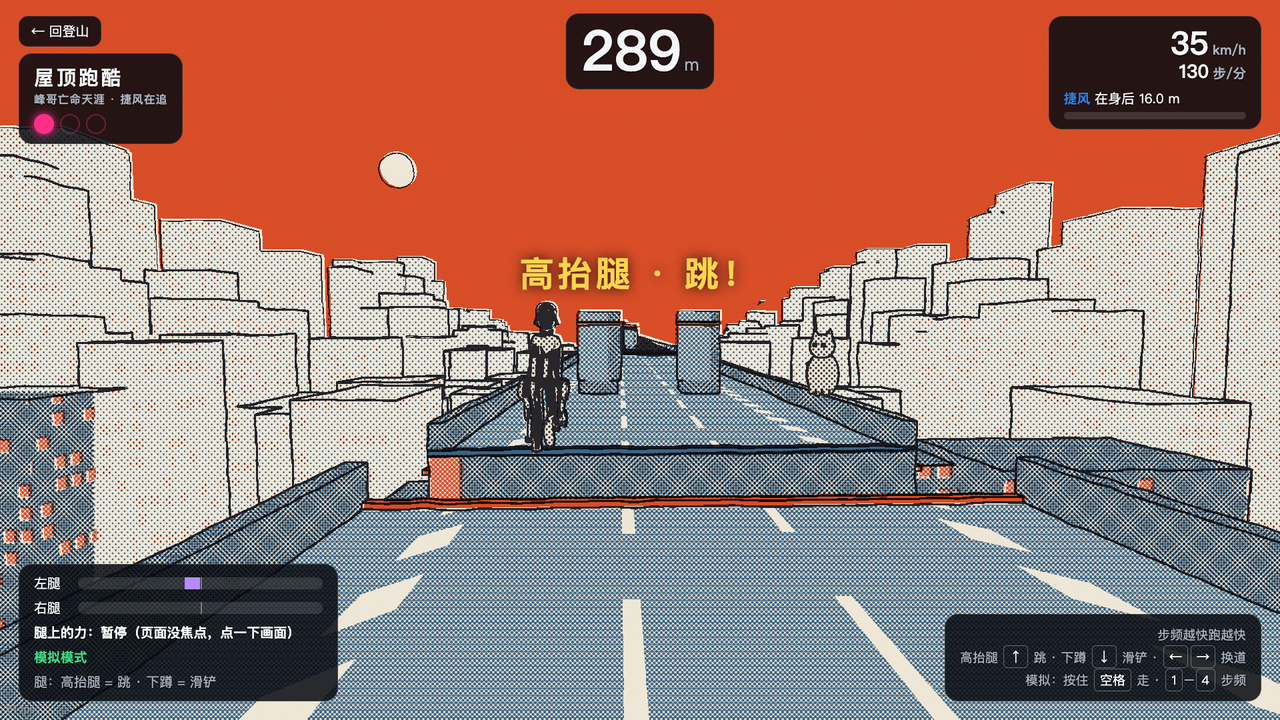
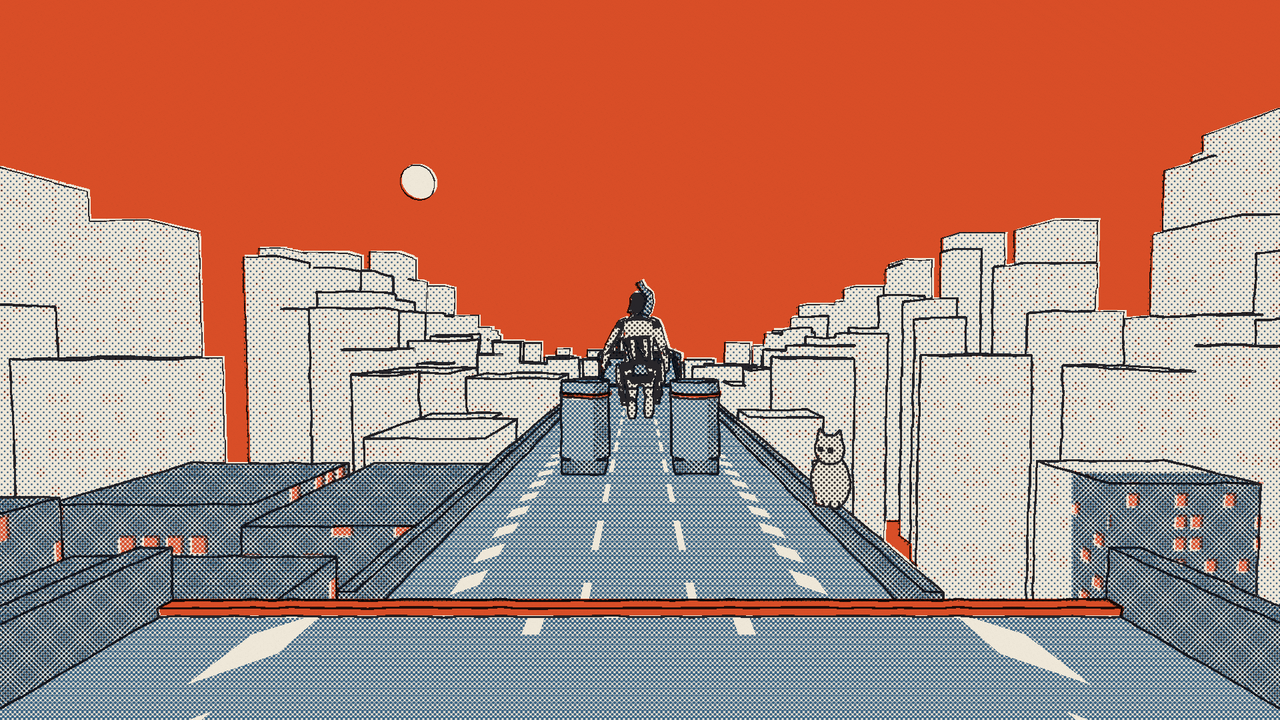
L：跑酷 riso 截图换成最新 main（R 动作 / P 身体）+ ?hud=0 的干净画面；指挥板 L 行第 3 轮

diff --git a/docs/指挥板.md b/docs/指挥板.md
@@ -17,7 +17,7 @@
 | **P 峰哥建模**（分支 claude/vibrant-ritchie-f949b4） | `static/game/fengge.js`、`static/game/lod.js`（新，第 2 轮）、`tests/test_game_lod.py`（新）、`static/fengge.html`、`static/models/fengge_face_hd.jpg`（新）、`docs/提交/素材授权.md`（新，和 J 线那份表头一样，合并时两边的行拼起来）、`docs/提交/截图/fengge_v2_*.png`；**avatar.js / engine.js / fengge.html 都没改** | 峰哥在正面镜头（V / `?cam=front`）近景下好看、一眼认得出：立体头型、针织帽、胡子头发、户外穿搭，外骨骼保留 | ⏳ **新三轮 · 第 1 轮 身体（等球球看）**（未 push）：CesiumMan 网格整个藏掉，换成按骨骼现摆的低多边形身体（`game/fengge/body.js`：躯干 / 腿 / 鞋 / 手臂沿骨头放样，平面着色哑光，蒙皮到**同一套骨骼**，A2 的动作照用）。比例（`game/fengge/shape.js`，loadAvatar 之后挪关节、外骨骼大小腿连杆跟着拉长，**avatar.js / anim.js 没动**）：偏瘦、窄肩，头 0.23 m，头身比约 1:6.5，髋关节约占身高 47%。头改成平面着色，和身体同一套低多边形质感，照片脸仍按 v3 C 投影。手（`game/fengge/hand.js`，子代理做的）：每只手有 16 根指骨，能 relax / grip / thumbsUp / open，两节骨 IK 伸手扣锁（到位误差约 2 µm，到位自动攥住），每只 258 三角。**给 E 线（华山南天门）**：`import { reach, reachStatus, reachGrip } from './fengge.js'`，`reach(世界坐标 Vector3, { side: 'R', grip: true })` 伸手，`reach(null)` 收回，`reachStatus('R').gripped` = 扣上了，`reachGrip('R')` = 手心抓握点（锁扣可以 attach 上去）。预览页可以用 `/fengge?reach=0.35,1.1,0.12`（化身局部坐标）试。登顶竖大拇指改用新手。穿搭（`game/fengge/outfits.js`）：按当前世界的 `theme.style` 选（fengge.js 按引擎同样的规则自己找世界，**engine.js 没动**），`?outfit=` 临时换；第 1 轮先穿基础款（球球挑的橙红砖冲锋衣）。开销：珠峰 pos 20 正面，场景比 `?fengge=0` 多 7.7k 三角（头近档 5.8k + 身体 2.3k + 手 0.5k …），绘制次数不变（108）。截图：`截图/fengge_r1_{front,30,back}.png`（白背景，`/fengge?bg=white`）、`fengge_r1_game.png`（珠峰游戏内正面镜头）、`fengge_r1_sheet.png`（总览）。pytest 125 过 1 挂（`test_fault::test_stress_stack_end_to_end`，worktree 缺被忽略的 `data/recordings/synthetic-walk.csv`，旧问题）。**没做 / 不理想**：身体没有远档 LOD（第 3 轮做）；手掌近看像块砖；肩头有一点方；影子仍是 CesiumMan。<br>| ✅ **第 3 轮：球球选了 C（v2 改良），已设成缺省**（未 push）。球球说 v2「还是太丑」后做了三个候选：A 平涂卡通、B 低多边形雕塑、C v2 改良（总览 `截图/fengge_v3_candidates.png`）。球球挑了 C，A、B 的代码删了（见 git e1f2d23，要回头看用那个提交）。**C 的做法**：还是照片正投影，五官起伏减到 0.8，头 0.26 m，头 / 帽 / 头发 / 围脖都改成和身体一样的哑光材质（Lambert）。照片和两侧肤色混好之后，整张脸一起去饱和 35%、压成 6 阶色阶：脸不那么「照片」，和两侧肤色也接得上，泰山暖光下不再发红。`?fgstyle=v2` 能看回旧的。试过三阶卡通光（MeshToonMaterial）：背光面不变暗，暖光下整张脸成了发光的橙色面具，没用。顺手按 ART 附录 A 把胸前青色压暗到 `#1d7d88`。骨骼、A2 的动作、LOD、登顶大拇指都照旧。**定稿截图**：`截图/fengge_v3_C_front / 30 / side / walk / summit.png`（`/fengge` 预览）、`fengge_v3_C_game.png`（泰山 pos 14 正面）、`fengge_v3_C_night.png`（东京 pos 18 正面）。面数和 v2 一样（泰山正面比 `?fengge=0` 多 10.3k 三角，绘制次数不变）。**不理想**：转头还是能看出脸是贴上去的，侧脸只靠几何 + 肤色；要侧脸也像，得等本人侧脸照片（`data/fengge_photos/` 还是空的，后台在盯）。<br>| ✅ **第 2 轮（未 push）**：① **LOD**：峰哥头 / 帽 / 头发造了两档，按头离镜头的距离切换（`THREE.LOD`，3.6 m，回差 10%）：正面镜头约 2.4 m 用近档（和 v2 一样，1.07 万三角），跟拍约 5 m、登顶环绕用远档（约 1.8k 三角）。30° 特写两档几乎看不出差别（`截图/fengge_lod.png`，左近右远），`?fglod=0/1` 可以固定用近档或远档。实测（`scripts/dom.mjs`，1920×1080，`npc=0`，面数按 dom.mjs 报的原样记，现在每帧要画两遍（光影线的后期），所以比 v2 那时大）：东京 pos 18 跟拍 +2.6k/帧（v2 是 +10.6k），泰山 pos 14 正面 +20.5k/帧；两处绘制次数和 `?fengge=0` 一样（149 / 106）。**捷风雕像**归 J，我只出了工具 `game/lod.js` 的 `simplify(geo, cell)`（顶点聚类，4.4 万三角 → 1.48 万三角，38–46 ms）和方案（见留言）。② **登顶「这是个好事儿啊」**：包一层 A2 的 animate（A2 同意由 P 维护），程度直接读 `av.body.P.cheer`：先点两下头，再多仰 6°、往一侧歪 8°；右臂把 V 字挥手换成**举在头侧的大拇指**。CesiumMan 的手是连指手套，没有手指骨，所以登顶时右手在着色器里藏掉，换成拳头 + 朝天的拇指；登顶镜头多从背后拍（泰山是定机位），举在头侧前后都看得见。照片嘴角往上挪约 7 px（很轻：怕真人脸变形）。顺手：手改成肤色（峰哥没戴手套），手腕上的深色小球藏了。截图 `截图/fengge_summit_front.png`、`fengge_summit_back.png`、`fengge_summit_game.png`（泰山登顶，从背后拍）。③ **v3 照片**：`data/fengge_photos/` 还没有照片，照片到了再做（后台在盯这个目录）。**踩坑**：v2 和这轮各有一次在 `FENGGE_LOOK` 一行中间插注释，把后面的颜色吞了（帽子 / 鞋变白），都在截图里发现后修了。<br>✅ **第 1 轮 v2（已合 main）**。**底模没换**，还是 CesiumMan，骨骼一根没加没改（名字 / 层级 / 绑定姿态原样）：A2 的动作是按 CesiumMan 骨骼名和逐根量过的转轴调的，换 Quaternius 这些都得重量，比赛前不值。把 A2 的 baf464a 临时叠上来跑过 `/game?…&cam=front`、`cam=side`：前倾、转头、围脖都正常（验完还原了，没带进分支）。**头**：放样几何（下巴到头顶 40 层截面 + 鼻梁 / 鼻翼 / 眼窝 / 眉弓 / 颧骨 / 嘴唇 / 下巴起伏），单位是参考照片的像素，照片（原图重新裁的 400×540，比旧的 272×384 清楚）按正前方正投影贴上去，五官自然对上；转开 60° 以上淡出成肤色 / 胡茬（带颗粒），后脑下半是发色。**帽子**：翻边 + 帽身，canvas 画的罗纹 V 字针脚（贴图 + 凹凸），帽檐线按照片（前额压到眉毛上方，两侧压过耳朵）。**头发**：帽子底下两侧 + 后脑两层发片，往下蓬、一绺一绺收尖（照片里就是齐下巴的头发撑在两边）。**围脖**：照片里的黑色抓绒围脖，挂脖子骨，转头不跟着转。**衣服**：包一层化身原来的分区材质：深灰速干衣 + 胸前 / 背后青色竖条纹 V 字拼色（照片里的户外打底衫，**没画任何 logo**）、袖子外侧青线、青色袖口、手套、深色长裤、登山鞋；身材沿法线鼓 0.4–1.2 cm。头放大到 0.25 m（身高的 1/5.8）、下巴压低 4 cm，不然正面镜头 2.4 m 外脸太小、脖子太长。**开销**（`scripts/dom.mjs`，1920×1080）：东京 pos 18 跟拍 73 次绘制 / 83.5k 三角形，`?fengge=0` 71 / 72.9k；泰山 pos 14 正面 49 / 243.9k vs 47 / 233.3k → **+2 次绘制、+10.6k 三角形**（v1 是 +3 / +4.4k），贴图多一张 400×540 + 两张 128² canvas；FPS 没在 M2 上测。**截图**（对比 `fengge_v2_compare.png`，左旧右新）：`fengge_v2_front / left30 / right30 / side / back.png`（`/fengge?zoom=1&walk=0&yaw=…`）、`fengge_v2_walk.png`（全身走路）、`fengge_v2_game_front.png`（`/game?preview=taishan_18pan&pos=14&cam=front`）、`fengge_v2_night_front.png`（东京 pos 18 正面，夜里脸看得清）。截图是无头 Chrome 按真实时间等 `data-ready` 再截的（swiftshader，内置浏览器面板没显示截不了）。**不理想**：照片是强光自拍，预览页里脸偏橙红；侧脸靠几何 + 肤色，耳朵被头发盖住没做；近看帽子针脚是规则的；东京的青色轮廓光把深色衣服整片染青，胸前拼色没白天明显 |
 | **J 疾风 NPC**（追兵，致敬版） | `static/game/npc.js`（新，行为）、`static/game/npc_jifeng.js`（新，造型 / 特效）；`engine.js` 只加 import + 1 行 init；`brain/tts.py` 加 `voice` 参数 + `--npc`；`shellos/agent/voice.py` 加 `NPC_VOICE` / `NPC_LINES`、缓存分目录；`server.py` 加 `/voice/npc.wav`（在 `/voice/*` 里）；`docs/提交/素材授权.md`（新） | 原创风系追兵：跟在玩家身后，步频决定远近，走慢了冲刺逼近（前倾 + 拖尾 + 风刃 + 喊一句），走快了被甩开，红灯她也站定；登顶结局「抓到你了」/「被你甩掉了」；只读 /state，不碰任何控制接口；`?npc=0` 关 | **第 10 轮 · 捷风 A/B 候选（等球球挑）**：A = STL 雕像（缺省），B = `?npclook=rig` 程序化造型。B 是 CesiumMan 骨架（和峰哥同一套），直接用 A2 的 `animate()`：用 `synthHip` 按她自己的速度合成步态，冲刺时步频过 150 自动切成跑，登顶抓到时举手，**是真的在跑，不是雕像在飘**。原头盔按 fengge.js 的做法塌进脖口，换成动漫比例的头（半径 0.108 / 0.13 / 0.101 m，头高约身高 1/5.6，下巴收尖）；脸是 canvas 手绘的扁平动漫脸（`jettFace()`：蓝色大眼、粗眼线外眼角上挑、半垂的上眼皮显得冷淡、细眉、小嘴一边嘴角略翘、脸颊一道白色风纹），正投影贴在前半球；白发是低多边形、平面着色：发帽 + 5 片刘海 + 两侧鬓发 + 后脑偏上扎起的短马尾（钴蓝发圈）；身上是钴蓝短外套（躯干分区）+ 白色立领 + 白护臂（肘到腕）+ 右胯偏后三把飞刀（银刃、深色柄）。配色全部读 `WHO.jett`。加起来约 2.5k 三角，不用 LOD（STL 那边已经接了 lod.js）。原创造型现在也改用 A2 的 animate。**截图**：`docs/提交/截图/npc_ab_overview.png`（2 列 × 3 行，左 A、右 B：东京跟拍 / 珠峰正面 / 近景看脸），单张 `npc_ab_{tokyo,everest,face}_{stl,rig}.png`，B 跑起来 `npc_ab_rig_run_1~3.png`。STL 雕像**没贴手绘脸**：它的脸是雕出来的五官，画上去对不齐，反而怪；要贴的话告诉我。帧率：这台机器负载 40（其他会话开着好几个 Chrome），测出来的 fps 不作数，B 比 A 少约 4 万三角。<br>**第 9 轮 · STL 雕像默认打开 ✅（M2 实测）**：合了 main（含 L 的 d260001 清洗拷贝）。先确认展位机上的 lighting.js / npc_jifeng.js / npc.js 和合并后的一模一样（md5 相同）。在展位机上开无头 Chrome（Metal，M2 Pro），**没碰 8765**：临时起一个只读静态服务 8877（多线程、监听队列 128），/worlds.json 用 CDP 从本机塞进去，用完关掉。缺省档（泛光 + 4×MSAA）：**对照 `?npc=0` 0% 黑**，所以这个环境现在是有效的对照；`?npcstl=1` 0% 黑、60 fps；原创造型 0% 黑。颜色 / 轮廓光目测正常：钴蓝外套、白发、风白拖尾和风刃，白轮廓光，没有青。所以把 STL 改回**默认开**（总指挥的热修那两行换掉了）：`?npcstl=0` 用原创造型，`=<url>` 换文件。改完用 CDP 把新的 npc_jifeng.js 塞进 M2 的页面、不带参数再验：东京跟拍 / 珠峰正面镜头都加载了雕像、0% 黑、60 fps；`?npcstl=0` 正常退回原创造型。截图：`docs/提交/截图/npc_tokyo_m2.png`、`npc_everest_m2.png`（M2 实拍，珠峰正面镜头下峰哥全身露出来）。展位机上的无头 Chrome、8877、/tmp/j-cdp、隧道都清理了。<br>**第 8 轮 · 标签避让 ✅**：捷风的名字牌和气泡照 hud.js 影子标签的做法，和 HUD 面板重叠就挪到面板下面，放不下就挪到上面。避让列表是 hud.js 的 AVOID 再加 `uidle` / `uqr` / `ghostTag`。`--sim` 验证：不按 R2（`#uready` 显示），80 步/分追上后连续采样 8 次，每次都在说话、都不重叠；强制出气泡时 bbox 标签 [763,482,910,543] 对 面板 [375,297,904,437]，不重叠，也没压到影子标签。<br>**第 7 轮 · ART P0/P1 ✅**（已合 main 3da7c39）：① **站位**（§6 构图铁律）：`LAT` 0.85 → **−0.9**，走右路沿，也就是离跟拍镜头（左后 1.4）远的那一侧，影子在 −0.5；不再进「镜头 → 峰哥」的视锥。追上的那一下绕 1 s 小弧：往前 0.35 步、往峰哥肩膀那边切 0.6（到 −0.3），然后回路沿；登顶抓到时站在峰哥右后侧。截图：`npc_art_tokyo_follow.png`（跟拍，峰哥全身露出来，她在右边）、`npc_art_tokyo_front.png`（正面镜头，峰哥全身、她在他身后侧面）、`npc_art_everest_p24.png`（北坳冰壁，就是 ART 截图里被挡的那个位置）、`npc_art_chase_1~3.png`（`--sim` 80 步/分追上，风白拖尾）。② **配色**：全部改读 `style.js` 的 `WHO.jett`：外套钴蓝 `coat`、白发 `hair`、拖尾 / 风刃 / 风环 `wind`（`#eaf2ff` 风白，原来是青 `#9ff3ff`）、轮廓光 `rim`（`#f2f6ff` 白，原来是青 `#bfeeff`）；原创造型和 STL 雕像都换了。名字牌蓝底白字、白边，气泡白字、蓝边。`tests/test_style.py` 通过。③ 标签离头顶 0.45 → 0.28，跟着她自己的头走，离镜头近时不再飘很高；出画时钉在右下（她在右边）。④ 按 P 线的接法接了 `lod.js`：`simplify(geo, 0.012)` 做远档、双面，6 m 外切换（`?npcstl=1` 本机验过能加载、无报错）。STL 仍然默认关，等 L 修好后期、在 M2 上验过再打开。<br>**第 6 轮 · M2 黑块排查（没查清，STL 保持默认关）**：① 在展位机上开了无头 Chrome（Metal，`ANGLE Metal Renderer: Apple M2 Pro`），用 CDP 截图，开头两次确实复现了「捷风」标签居中的黑块。**但对照组作废了整轮结论**：同一个无头环境里 `?npc=0`（完全没有 NPC）也是 100% 黑、原创造型也黑，只有 `?aa=0` / `?bloom=0` / `?fx=off` 不黑。所以**无头 Chrome 在 M2 上的 4×MSAA + 半浮点 + 泛光本身就出黑**，和雕像无关，它复现不了展位的真实问题。在它上面做的 clamp、centroid 插值、材质换成纯色、三角形砍到 1/4、藏雕像、藏拖尾这些 A/B 都是 99% 黑，**全部不作数**。② 真正排除了的：雕像 22,271 个顶点里没有 NaN 或零长度的法线，坐标都在 ±5 以内（本机页面里逐个查的）；lighting.js 第一帧收集投影物体和 NPC 异步加载确实有竞态，但雕像没被收进去（cast / recv 都是 false）时照样黑，所以不是它。③ 留下的改动：菲涅尔 `pow` 的底数 clamp 到 [0,1]（pow 负数在 GLSL 里没有定义，属于防御性写法，已注明不是黑块的原因）；centroid 已撤回；STL 仍然默认关（总指挥的热修不动）。④ **下一步建议**（要在展位的真实 Chrome 窗口上看，无头不行）：在展位浏览器依次开 `?npcstl=1&aa=0`、`?npcstl=1&bloom=0`、`?npcstl=1&fx=off`，看哪个不黑，再定修法：MSAA 类可以给雕像单独关抗锯齿 / 改用 FXAA，泛光类就给泛光输入加 NaN 过滤。⑤ `?npc=0` 加载失败：合了新 main（监听队列 128）后，本机 GPU 无头 `/game?npc=0`（实时和预览）都能 ready、errlog 空，复现不了，跟连接 RST 的解释对得上；展位上还没复验（8765 当时在重启，端口没开）。⑥ 展位机上我开的无头 Chrome（9333）、临时静态服务（8877）、SSH 隧道都关了，/tmp/j-cdp 也删了；没碰 8765、没发 POST、没改展位的文件。<br>**第 5 轮 · 捷风 STL 雕像接进游戏 ✅**：Sketchfab 要登录，没用。改用 Thingiverse thing:4326703（作者 Frojj123，CC BY 4.0，粉丝原创的 3D 打印手办，不是游戏提取），总指挥放在主工作区的 `models/jett/jett.stl`（已被 git 忽略）。① `vendor/STLLoader.js`：本机只有 three **0.169** 官方包里的 STLLoader（0.160 不在 npm 缓存里；为了一个文件下整个包就没下）。它引用的 BufferAttribute / BufferGeometry / Color / FileLoader / Float32BufferAttribute / Loader / Vector3 / SRGBColorSpace 在 r160 里都有，实测能正常解析。② 加载：先 `mergeVertices`（STL 每个三角形各存 3 个点，不合并的话法线是平的），Z 朝上转成 Y 朝上，缩放到化身身高、脚底落地；这个 STL 本来就面朝 +X，所以 `yaw = 0`（4 个角度截图确认过：站姿、双臂下垂、没有底座），再 `computeVertexNormals` 让表面平滑。③ 按区域烘顶点色：靴 < 8%、腿 < 54%、外套 < 80%，80–93.5% 里朝前的算脸（肤色），其余算头发（白）；36–56% 高度、离中线 > 0.19 的算手套（深色）。材质是 Lambert 加自发光打底 30%、再加菲涅尔轮廓光，东京夜景里看得清。边界都在 `npc_jifeng.js` 的 `STATUE` 表里，对着截图调过。④ 动作「风系飘行」：离地 7 cm 浮着，走的时候上下起伏 ±5 cm，停下来慢慢起伏 ±3 cm，再加一点呼吸（身高缩放 ±1.2%）；前倾 0.03，走的时候 +0.1，冲刺再 +0.32 rad；冲刺时拖尾拉长（历史点间距 5 → 15 cm，最长约 3.6）+ 风刃；追上的那一下绕一个 1 s 的小弧（往前 0.35 步、往玩家那边切 0.3、身体跟着转）再站定；登顶被甩时弯腰。优先级：`scene.gltf` → `jett.stl` → 原创造型，都没有也不会报错。⑤ 性能：+7 次绘制、+4.4 万三角（东京预览 84 次 / 7.7 万 → 91 次 / 12.2 万）。无头 Chrome 走 GPU 的帧率噪声太大（同样没有 NPC，两次分别是 30.1 和 45.6），看不出雕像带来的差别，所以**没抽稀**；展位 M2 上要是掉帧，再加载时抽稀，或者远处换原创造型。⑥ 截图 `docs/提交/截图/npc_jett_stl_*.png`：preview（东京天桥冲刺）、front（正面看配色）、slow_1~6（`--sim` 泰山 80 步/分：gap 2.50「가자」→ 1.45「就这？빨리빨리」→ 0.70 追上、绕弧、「回头看看？我在这儿。」）、fast_1~3（130 步/分：2.76 → 4.69 甩开「哟，跑挺快嘛。」）、summit（登顶抓到「又是我先到，拜。」）。⑦ 素材授权.md：模型那一行改成 Thingiverse / Frojj123 / CC BY 4.0、粉丝原创手办、角色 IP 属于 Riot、不进 git；Sketchfab 那一行写「未采用（要登录）」。<br>**第 4 轮 · 方案 A：改名「捷风」+ Sketchfab 模型（没用上，要登录）**：球球知情后决定推翻「原创致敬版」（总指挥转达）。① `角色名` 缺省改成「捷风」，代码注释里的疾风也都改了；文件名、变量名没动。② `.gitignore` 加了 `shellos/ui/static/models/jett/`（用占位文件验过会被忽略）。deploy.sh 的 rsync 没有读 .gitignore，只排除了 .git / .venv / recordings 这些，所以模型会同步到展位机。③ `npc_jifeng.js` 用 GLTFLoader 读 `/models/jett/scene.gltf`：缩放到化身身高、脚底落地、正面转到 +X，贴图顺便当自发光打底，夜景里不会黑成一团。骨骼按名字匹配（thigh / upleg / leg、calf / knee、upperarm / arm、spine、head），左右按绑定姿态的位置分，摆动轴换算到每根骨骼自己的局部坐标，不依赖骨架的命名和轴向；T 字姿势的上臂自动放下 70°。自带的格斗站姿在「追上后站定」和「登顶抓到」时播放。模型 404、坏文件或者找不到腿骨，都**静默退回原创造型**，页面不报错（验过：没有模型时是原创造型，errlog 空）。**用 CesiumMan 冒充外部模型（`?npcmodel=/models/CesiumMan.glb`）把通用骨骼匹配走了一遍**：侧面看跑步姿势方向正确，前倾、大腿前摆、小腿后折、手臂反向摆。调试参数：`?npcmodel=` 换模型、`?npcmodel=0` 强制原创、`?npcyaw=` 修正朝向。⚠ 服务器 `_static` 给 .gltf / .png / .bin 回的是 application/octet-stream，按理不影响 GLTFLoader 解码，模型到了再实测。④ 素材授权.md 照实改了：模型来自 BojanV06（标 CC-BY，原始 IP 属于 Riot，很可能是游戏提取），球球知情后用于非商业黑客松展示，不进 git、不公开分发；角色名「捷风」属于 Riot 的 IP；原创造型只做退路。语音那一行来源不变，只把「外形和名字仍然原创」这句过期的说法改掉了。录音台词单里的同意示范句也改成了「角色『捷风』」。⑤ 「名字写错了」：等总指挥问清楚是角色名还是配音演员名（J 线的文件里没写配音演员的名字）。<br>**第 3 轮 · 配音演员本人现场录（等录音）**：本人当面同意（总指挥转达，记在留言里）。界限：只用本人**现场新录**的声音，不用游戏音频，不念游戏原台词；外形和名字仍然原创。① 录音台词单 `docs/提交/疾风录音台词单.md`（已发总指挥转球球）：原来的 6 句 + 新写的 5 句（被甩开 2「喂！我还没热身呢。」、追上 2「回头看看？我在这儿。」、红灯一起停「红灯。站好，我也不动。」、绿灯「绿灯了，가자！」、登顶嘲讽「山顶风大，站稳了。」），每句标了情绪，再加 30–60 s 自由说话；录音要求和同意视频的提醒都写在里面。② 接收：`brain/npc_intake.py` 读主工作区 `data/voice/npc_raw/`（`01~11.*` 一句一个文件，或者整段录、按 ≥0.9 s 的停顿切；`free.*` 是参考音频），用 ffmpeg 解码，按停顿切句、取最后一遍、去掉首尾静音，响度归一到 RMS −18 dBFS、峰值 ≤ −1 dBFS，输出 24 kHz 单声道 16 bit，放进 `data/voice/npc/real/`；每一段另存到 `npc_takes/`，自动挑的不满意可以用 `--use 09 <文件>` 换。`free.*` 转成 `data/voice/ref/jifeng_ref.m4a`。`/voice/npc.wav` **真人录音优先**，没有的再合成。已经有复刻 ID（`data/voice/npc_voice_id`）就用复刻音色，没有才用预设候选。③ 复刻：`tts.py --clone-npc`（9.9 元，**问过球球、确认后才跑**；`clone()` 改成可以传参考音频 / ID 文件 / 前缀，峰哥的行为不变）。游戏里 LINES 改成一个事件可以有好几句、随机挑一句，新增红灯 / 绿灯事件。用 `say` 生成的假录音走通了一遍：整段两遍切成 2 段、用最后一遍，输出 24 kHz / 1 ch / Int16，参考音频 16 s → m4a。test_voice 14 过（新增：真人优先不再合成；切句 + 归一化 + 输出格式）。素材授权.md 已写明「本人当面同意、现场新录、不是游戏素材」。<br>**第 2 轮 · 音色候选（等球球挑）**：第一版「清脆少女」球球说一点都不像。界限没变：不复刻捷风中文配音（真人）、不用游戏音频。从官方系统音色（国内站 get_voice 拉的 303 个）里挑了 4 个，都调了语速 / 音高 / 情绪：**A 嚣张小姐** `Arrogant_Miss`（1.2 / +1 / happy）、**B 韩语冷漠女孩** `Korean_ColdGirl`（1.25 / +1 / disgusted）、**C 韩语女冒险家** `Korean_BraveAdventurer`（1.25 / +2 / angry）、**D 俏皮萌妹** `qiaopi_mengmei`（1.3 / −1 / surprised）。台词重写成嘴欠刺客味，原创，夹通用韩语感叹词：가자！你先跑三秒。/ 就这？빨리빨리！/ 逮到了，慢死了。/ 哟，跑挺快嘛。/ 又是我先到，拜。/ 啧，算你走运。试听用其中 4 句，每个候选同样 4 句，一共 16 条全部成功，200 计费字符（约 $0.02）。文件在主工作区 `data/voice/npc_candidates/<候选名>/1~4.wav`（不进 git）。试听：`cd data/voice/npc_candidates && for d in */; do echo "== $d"; for f in "$d"*.wav; do afplay "$f"; done; sleep 1; done`。**选定后**：`voice.py` 里 `NPC_VOICE` 的缺省改成那个候选名，再跑 `brain/tts.py --npc`，只有 2 句要新合成，另外 4 句试听时已经进了缓存。在那之前，缺省还是清脆少女，新台词会现场合成。代码改动：`voice` 参数可以传完整的 voice_setting 字典（tts.py 只收 voice_id / speed / pitch / vol / emotion 这几个字段），带 NPC 音色时 `language_boost=auto`；`tts.py --npc-candidates`；新增测试 1 条（字段透传、auto、参数不同缓存分开），test_voice 13 过。<br>✅ 第 1 轮：分支 `claude/recursing-gould-f7e62a`（未 push、未合 main）。**造型**：复用 CesiumMan 换装（深蓝腿、蓝外套、白头）+ 往后吹的白发（6 个锥，合成一个网格）+ 白色高领，冲刺时 3 条加色拖尾 + 两道绕腰的月牙风刃，「抓到」时脚下一圈风环。没用 Quaternius：多一个 glb，骨骼名不一样，pose 接不上。角色名是 `npc_jifeng.js` 顶上的 `角色名` 常量（缺省「疾风」，也可以临时 `?npcname=`）。**行为**（`npc.js` 顶上的 `NPC` 表）：落后 gap 步，起始 2.5；走的时候 gap 每秒变化（步频 − 100）/ 40 步；站着不走（不是红灯）每秒贴近 0.4 步；**红灯 gap 冻住**、不冲刺、不喊；gap ≤ 0.7 算追上，≥ 4.5 算甩开（她藏到镜头后，左下角留「疾风 ↓ 落后 N 步」）；登顶时 gap < 3 →「抓到你了」，她冲到玩家左后侧 + 风环，否则「被你甩掉了」，停在原地弯腰喘气；登顶卡收起后 gap 回到 2.5。她走左侧路沿（横向 +0.85），不和右边的影子叠在一起。距离按真实时间积分，掉帧也不会追得慢。**声音**：MiniMax 系统预设音色 `Chinese (Mandarin)_Crisp_Girl`（官方系统音色列表里的，不是复刻，不花 9.9），台词原创 6 句：风起了 / 别停 / 追上你了 / 等等我 / 抓到你了 / 被你甩掉了；`/voice/npc.wav?t=` 只念这 6 句白名单，别的回 204；缓存 `data/voice/npc/`，和峰哥的分开。在主工作区 brain 目录用 `brain/.env` 的 key 真跑了一次 `tts.py --npc`：6 句全部成功，42 个计费字符，每句 1.0–1.3 s，wav 已经放进主工作区 `data/voice/npc/`（deploy 时跟着 data/voice 一起同步）。?voice=0 静音，预览不出声。**验收**：`pytest` 108 过 1 挂（worktree 里没有录制文件的那条 stress，和以前一样；新增 2 条：白名单 + 分目录缓存、预设音色不需要复刻）。截图（1080p，无头 Chrome 走 Metal GPU，swiftshader 一帧要 40–90 s，没法连拍）在 `docs/提交/截图/`：`npc_preview.png`（东京天桥、冲刺、「别停」）；`--sim` 泰山 80 步/分 `npc_sim_slow_1~3`（gap 2.50「风起了」→ 1.67「别停」→ 0.70「追上你了」，从起步到追上 5.8 s）；130 步/分 `npc_sim_fast_1~3`（3.37 → 4.80「等等我」→ 5.50 甩开，3.7 s 甩开）；东京红灯 80 步/分 `npc_sim_red_1~2`（第 4 步红灯站住，gap 1.39 连续 7 s 不变）；`npc_summit_caught.png` / `npc_summit_shaken.png`（登顶两种结局）。**性能**：东京预览加 NPC 前后是 84 → 93 次绘制，77.3k → 82.5k 三角形（+9 次、+5.2k）。`?npc=0` 时没有 NPC 也没有标签（验过）。**没做到**：A2 的动画没接（接口写在下面的留言里）；红灯时她停在路左侧，镜头在左后方，偶尔会挡住化身的一部分；登顶环绕镜头下她的名字牌位置是按头顶投影算的，离得近时会偏高 |
 | **R 跑酷**（球球的屋顶跑酷，分支 claude/distracted-darwin-3d3c88） | `static/parkour.html`、`static/parkour/**`（`logic.js` 纯逻辑 / `city.js` 场景 / `main.js`）、`tests/test_parkour.py`（新）；`server.py` 只加 `/parkour` 路由 + `/parkour/` 静态前缀（3 行） | 独立新页 `/parkour`：第三人称跟跑 · 夜里城市屋顶 · 峰哥 · 无尽模式撞 3 次结束（球球 9/23 选的都是推荐项）。步频 = 跑速，高抬腿 = 跳，双腿下蹲 = 滑铲，键盘 ←→ 换道；捷风在后面追 | **v1 能玩，未 push**。**玩法**：3 条道，楼缝 / 空调外机（跳）、晾衣杆（蹲）、水箱（换道）、斜板上更高的楼；步频 → 速度 0.075 m/s 每步/分（100 → 27 km/h，200 封顶 54 km/h）；捷风开局站你身边喊「가자！你先跑三秒。」，3 s 后开追，速度随距离涨（1000 m 时 ≈ 步频 137），追上算撞一次；高抬腿或回车再来一局，最好成绩存 localStorage。**腿**：屈髋减 A2 学出的零点（`av.body.off`），一条腿 > 45° 且还在抬、另一条 < 30° = 跳；两条都 > 35° = 滑铲；走满 5 s 才开（零点没学出来前穿戴偏屈 15–20°，会误触发）。阈值在 `logic.js` 的 `TUNE`，现场可以用 `?jump=&slide=&vjump=` 调。node 测试：正常走路 20 s 0 次误触发。**腿上的力**：只调 `POST /terrain/force`：斜板 = `up`，落地 0.5 s = `down`，前方 0.9 s 内要跳 = `lift`（只在摆动期帮抬腿；9/23 台阶力反过来后从 `stairs_up` 换过来），其余 null；非 null 带 ttl 1 s、每 300 ms 续；大小仍归 Guard + R2。页面失焦 / 隐藏 / 关掉 / 一局结束 / 没开跑都回 null（实测失焦 2 ms、切走 39 ms 服务端就是 null）。**没兜住**：浏览器崩了（SIGKILL，pagehide 不触发）force 会留在最后那个值，见留言。**验收**（9/23 晚重拍，捷风改名 + 美术范式之后）：`--sim` 自动驾驶（`?auto=0.96&seed=12`）完整一局 127 s / 1123 m，9 张 `docs/提交/截图/parkour_01_title` … `parkour_09_over.png`（开场捷风站右边 → 跳（脚下台阶黄起跳沿、对面下坡蓝落地沿）→ 换道 → 滑铲 → 跑 → 捷风逼近（右上角变红）→ 撞 1 / 撞 2 → 被捷风抓住），这局 force 出现过 null / up / lift / down。**美术**：颜色全从 `game/style.js` 取（`applyCssVars()` + `SEG` / `PALETTE.parkour`），按 ART §R 改了 5 条 P1：捷风钴蓝名牌、起跳障碍前沿台阶黄、斜板两侧上坡绿、换道提示紫、捷风只在离镜头 ≥ 2.5 m 且横向 1.8 时现身（站峰哥另一侧，不压左下腿力面板）；另外车道线青 → 月光白（青撞下坡蓝）、楼沿警示带黄黑 → 灰黑（黄 = 台阶）。P2 光影管线没接（要 L 线给预设）。**性能**：这台开发机是 2017 款 AMD Radeon Pro 555（没有 M2 可测），无头 Chrome 走 Metal、1920×1080：**60 fps（到顶）**，`?fx=low` 也是 60；绘制 ≤ 102 次、≤ 3 万三角。最大的坑是 HUD 面板的 `backdrop-filter: blur`（34 → 60 fps 就差它），已去掉；fx=low 降分辨率到 0.75 反而更慢，改成只关抗锯齿 + 远景楼减半。pytest 114 过（worktree 缺 `data/recordings/synthetic-walk.csv`，那条 stress 借主工作区的文件软链后才过，和以前一样）。**没做**：真机没穿过，高抬腿 / 下蹲阈值只按 A2 录制的量级估的；没有峰哥解说 / 金币 / 排行榜 |
-| **L 光影** | `static/game/lighting.js`（新）、`static/vendor/postprocessing/`、`static/vendor/shaders/`（three 0.160 官方包原样拷，不走 CDN）；`engine.js` 只动 3 处（import、渲染器 antialias 那行 + `makeLighting()`、`renderer.render` → `lit.render(ctx, A, s, summit)`） | 电影感光影 + 守住帧率 | ✅ **第 2 轮：展位「一直闪」已修**（lighting.js）。**原因**：场景画进 4×MSAA 半浮点目标，Apple GPU（ANGLE/Metal）resolve 出来带非有限值 / 负数像素，泛光的模糊链把坏点抹满整屏 → 整帧发黑；雨、车流让坏点时有时无 → 黑帧和正常帧交替。Intel 上不出现（第 1 轮只在 M2 Pro 上测了帧率没看帧，漏了）。**二分**（MacBook 无头 Chrome/Metal，东京静态画面，每 120 ms 一帧的平均亮度）：`?fx=off` ≈51；缺省 ≈4（黑）；`?aa=0` ≈52；`?fx=low`（MSAA 无泛光）≈47；`?shadow=0`（MSAA + 泛光）≈4。**修法**：场景单独画进自己的 MSAA 目标 → 一道清洗拷贝（NaN→0、夹 0..64）进不带 MSAA 的后期缓冲，泛光 / 光束 / 输出只碰后期缓冲。修后在 MacBook（Metal，无头 Chrome 1280×720）逐帧复验缺省档，全部不黑不闪、帧间变化和 `?fx=off` 同量级：东京 pos 6 ≈52–54、泰山 pos 24 ≈54 / 登顶 ≈100、富士 pos 6 ≈27 / pos 30 ≈65 / 登顶 ≈124、珠峰 pos 1 ≈127 / pos 29 ≈167 / 登顶 ≈128、梧桐 pos 10 ≈87、训练场 pos 6 ≈68（离线预览，每主题 6 帧 × 120 ms）；**实时 /game**（MacBook 的 Chrome 经隧道连我本机的 --sim 8873）：东京站在红灯 60 fps、25 帧亮度 48–55；富士走一整圈 60 fps，亮度随天亮 25→71 平滑上升，登顶后新一圈回到夜里（那一下是换圈，不是闪）。**第 2 轮补充验收**（MacBook Metal，缺省档，离线预览每个 30 帧 × 120 ms 的画面亮度，黑帧 = 低于中位数一半）：东京 `&npcstl=1` 均值 54.8 / 标准差 1.11 / 黑帧 0（同画面 `?fx=off` 52.5 / 0.77，差别是雨和车流）；珠峰 pos 29 `&npcstl=1` 167.3 / 0.23 / 0；泰山 pos 24 56.9 / 0.13 / 0；富士 pos 30 67.8 / 0.08 / 0；梧桐 pos 10 88.3 / 0.11 / 0；训练场 pos 6 70.6 / 0.17 / 0。**捷风 STL 雕像在 M2 上正常**（东京、珠峰都看过），STL 默认可以改回开（已告诉 J）。**坏点从哪来**（读回场景目标数半浮点 NaN，东京 pos 6）：全场景约 24–39 个 NaN 像素；藏掉捷风雕像或影子几乎不变（不是 STL 的锅）；藏掉化身降到 6，是最大的一处。化身轮廓光 `pow(fr, 2.2)` 里 `fr = 1 − |dot|` 会因浮点误差略小于 0，Metal 上 pow(负数) = NaN，改成 `pow(max(fr, 0.0), 2.2)` 后 24 → 17（avatar.js 不在我名下，只在 MacBook 测试副本上试过，没提交）；剩下的还有化身别的部件、八公像等，按规矩只查了一轮。清洗拷贝把这些都挡住了，不用等它们修。**稳**：自动降档改成默认关（`?auto=1` 才开；它每降一级都重编译材质、画面跳一下，世界切换时掉帧会误触发）。snow_summit 按 E 的值加进 PRESET（vig 0）。珠峰实时走一段：亮度随风雪平滑 130→170、到北坳停住，光影参数全程不变，缺氧层按设计呼吸。<br>第 1 轮：✅ **主题文件一行没改**，按 `theme.style` 在 lighting.js 里配。**管线**：场景照旧在着色器里编码成 sRGB 写进半浮点 4×MSAA 目标（半透明的雾、雨、影子照旧在 sRGB 空间混合，主题调好的样子不变）→ 泛光（阈值按最亮通道，霓虹 / 灯 / 日轮过线、白衣化身不糊）→ 光束（有 `sunGlow` 的泰山 / 富士山，滤色叠加，只提亮剪影边）→ 最后一道：解码 → 曝光 + ACES（每主题白点，白天主题 1.0–1.3，不然云和日轮会被压成一团灰）→ 冷暖分离 / 暗角 / 抖动。**阴影**：太阳 PCF 软阴影，阴影盒 ±13 跟着化身前方 4 走（按贴图像素对齐不闪），投影 = 不透明、吃雾、半径 < 30 的网格 + 所有实例化网格 + 化身；路面、地面只接影。**分主题**：东京湿路面挂画出来的霓虹环境图（水洼反得多，0 次额外绘制）、冷暗暖亮；泰山逆光 + 光束 + 暖色轮廓；富士山按爬升进度把曝光 / 白点 / 泛光 / 调色 / 化身轮廓光从星空（冷）过渡到御来光（暖）；梧桐山石阶补接影（原来是定色材质）+ 林荫光斑 + 影子里留 50% 天光；训练场暗部略提。**开关**：`?fx=high`（缺省）/ `mid` / `low` / `off`（off = 原来的直出）；单项 `?bloom=0 ?shadow=0\|1024\|2048 ?rays=0 ?grade=0 ?tm=aces\|agx\|none ?exp=1.2 ?aa=0`；`?auto=1` 开自动降档（连续 4 s < 45 fps 降一级，第 2 轮起默认关）；调试 `__lighting.info()`。**帧率**（展位 MacBook 实测，**它是 M2 Pro 不是 M2**；1920×1080、无头 Chrome 走 Metal、关垂直同步取 6 s 平均；离线预览，另起的 `--sim` 8878，测完关了）：东京 pos 6 off 561 / low 314 / mid 230 / high 172；泰山 pos 24 603 / 349 / 162 / 164；富士 pos 6 638 / 390 / 221 / 162；梧桐 pos 10 404 / 219 / 230 / 184；训练场 pos 6 689 / – / – / 216（low / mid 两次都没加载出来，见留言）。开垂直同步时东京 high 60.0 = 顶格。缺省 high 最低 162 fps，普通 M2（GPU 约一半）估计也 ≥ 80，没实测。开发机 Intel 无头 1280×720（负载 45）：off 40–57，high 22–34。**截图**（前 = `?fx=off`，后 = 缺省）：`docs/提交/截图/light_cyber_night.png`、`light_dawn_mountain.png`（含登顶）、`light_night_to_dawn.png`（pos 6 / 22 / 30 / 登顶）、`light_subtropical.png`、`light_grid.png`；5 个主题 + 实时 /game 三档都 0 报错。**不理想**：泰山两处比原来暗一点（拂晓调子）；泰山登顶日轮比原来淡；梧桐山路边没有树冠，「树影」主要靠光斑图案 + 护栏影，真树影落不到石阶上；每帧绘制 +50～70（阴影一遍 + 后期约 15 次） |
+| **L 光影** | `static/game/lighting.js`（新）、`static/vendor/postprocessing/`、`static/vendor/shaders/`（three 0.160 官方包原样拷，不走 CDN）；`engine.js` 只动 3 处（import、渲染器 antialias 那行 + `makeLighting()`、`renderer.render` → `lit.render(ctx, A, s, summit)`） | 电影感光影 + 守住帧率 | ✅ **第 3 轮：跑酷「三墨一纸」孔版后期**（`parkour/riso.js` 新文件；`parkour/main.js` 只加 import + 一行 `makeRiso(...)`，它接管 `renderer.render`）。`/parkour?look=riso`，默认关；`&fx=low` 网点改查小贴图。原样画一遍取亮度 + 换分墨材质再画一遍取类别 / 朝向 / 深度 → 一道全屏着色器：纸 #f0e9da、三墨 multiply、套印错位固定、网点 8/1.8 · 7/2.4 · 7/2.2 · 9/1.4、楼顶水平排线、深墨轮廓（按类别 / 深度 / 朝向断层，线会沸：一拍二，seed = 7000 + 帧号）、纸颗粒 seed 99；天 = 暖墨色场、月亮留纸、峰哥深墨、捷风暖墨、标线按色相归墨（起跳沿 / 落地沿不丢）；猫客串（坐姿，坐在前方屋顶护栏上）。截图 `docs/提交/截图/parkour_riso_{jump,pan,cat}.png`（`&hud=0`，本机无头 Chrome 1080p 缩到 720p）。**没做到**：M2 上帧率没测（MacBook 当时 ping 不通）；DOM 的 HUD 不归后期管，还是原来的颜色（截图用 `&hud=0`）。<br>第 2 轮：（lighting.js）。**原因**：场景画进 4×MSAA 半浮点目标，Apple GPU（ANGLE/Metal）resolve 出来带非有限值 / 负数像素，泛光的模糊链把坏点抹满整屏 → 整帧发黑；雨、车流让坏点时有时无 → 黑帧和正常帧交替。Intel 上不出现（第 1 轮只在 M2 Pro 上测了帧率没看帧，漏了）。**二分**（MacBook 无头 Chrome/Metal，东京静态画面，每 120 ms 一帧的平均亮度）：`?fx=off` ≈51；缺省 ≈4（黑）；`?aa=0` ≈52；`?fx=low`（MSAA 无泛光）≈47；`?shadow=0`（MSAA + 泛光）≈4。**修法**：场景单独画进自己的 MSAA 目标 → 一道清洗拷贝（NaN→0、夹 0..64）进不带 MSAA 的后期缓冲，泛光 / 光束 / 输出只碰后期缓冲。修后在 MacBook（Metal，无头 Chrome 1280×720）逐帧复验缺省档，全部不黑不闪、帧间变化和 `?fx=off` 同量级：东京 pos 6 ≈52–54、泰山 pos 24 ≈54 / 登顶 ≈100、富士 pos 6 ≈27 / pos 30 ≈65 / 登顶 ≈124、珠峰 pos 1 ≈127 / pos 29 ≈167 / 登顶 ≈128、梧桐 pos 10 ≈87、训练场 pos 6 ≈68（离线预览，每主题 6 帧 × 120 ms）；**实时 /game**（MacBook 的 Chrome 经隧道连我本机的 --sim 8873）：东京站在红灯 60 fps、25 帧亮度 48–55；富士走一整圈 60 fps，亮度随天亮 25→71 平滑上升，登顶后新一圈回到夜里（那一下是换圈，不是闪）。**第 2 轮补充验收**（MacBook Metal，缺省档，离线预览每个 30 帧 × 120 ms 的画面亮度，黑帧 = 低于中位数一半）：东京 `&npcstl=1` 均值 54.8 / 标准差 1.11 / 黑帧 0（同画面 `?fx=off` 52.5 / 0.77，差别是雨和车流）；珠峰 pos 29 `&npcstl=1` 167.3 / 0.23 / 0；泰山 pos 24 56.9 / 0.13 / 0；富士 pos 30 67.8 / 0.08 / 0；梧桐 pos 10 88.3 / 0.11 / 0；训练场 pos 6 70.6 / 0.17 / 0。**捷风 STL 雕像在 M2 上正常**（东京、珠峰都看过），STL 默认可以改回开（已告诉 J）。**坏点从哪来**（读回场景目标数半浮点 NaN，东京 pos 6）：全场景约 24–39 个 NaN 像素；藏掉捷风雕像或影子几乎不变（不是 STL 的锅）；藏掉化身降到 6，是最大的一处。化身轮廓光 `pow(fr, 2.2)` 里 `fr = 1 − |dot|` 会因浮点误差略小于 0，Metal 上 pow(负数) = NaN，改成 `pow(max(fr, 0.0), 2.2)` 后 24 → 17（avatar.js 不在我名下，只在 MacBook 测试副本上试过，没提交）；剩下的还有化身别的部件、八公像等，按规矩只查了一轮。清洗拷贝把这些都挡住了，不用等它们修。**稳**：自动降档改成默认关（`?auto=1` 才开；它每降一级都重编译材质、画面跳一下，世界切换时掉帧会误触发）。snow_summit 按 E 的值加进 PRESET（vig 0）。珠峰实时走一段：亮度随风雪平滑 130→170、到北坳停住，光影参数全程不变，缺氧层按设计呼吸。<br>第 1 轮：✅ **主题文件一行没改**，按 `theme.style` 在 lighting.js 里配。**管线**：场景照旧在着色器里编码成 sRGB 写进半浮点 4×MSAA 目标（半透明的雾、雨、影子照旧在 sRGB 空间混合，主题调好的样子不变）→ 泛光（阈值按最亮通道，霓虹 / 灯 / 日轮过线、白衣化身不糊）→ 光束（有 `sunGlow` 的泰山 / 富士山，滤色叠加，只提亮剪影边）→ 最后一道：解码 → 曝光 + ACES（每主题白点，白天主题 1.0–1.3，不然云和日轮会被压成一团灰）→ 冷暖分离 / 暗角 / 抖动。**阴影**：太阳 PCF 软阴影，阴影盒 ±13 跟着化身前方 4 走（按贴图像素对齐不闪），投影 = 不透明、吃雾、半径 < 30 的网格 + 所有实例化网格 + 化身；路面、地面只接影。**分主题**：东京湿路面挂画出来的霓虹环境图（水洼反得多，0 次额外绘制）、冷暗暖亮；泰山逆光 + 光束 + 暖色轮廓；富士山按爬升进度把曝光 / 白点 / 泛光 / 调色 / 化身轮廓光从星空（冷）过渡到御来光（暖）；梧桐山石阶补接影（原来是定色材质）+ 林荫光斑 + 影子里留 50% 天光；训练场暗部略提。**开关**：`?fx=high`（缺省）/ `mid` / `low` / `off`（off = 原来的直出）；单项 `?bloom=0 ?shadow=0\|1024\|2048 ?rays=0 ?grade=0 ?tm=aces\|agx\|none ?exp=1.2 ?aa=0`；`?auto=1` 开自动降档（连续 4 s < 45 fps 降一级，第 2 轮起默认关）；调试 `__lighting.info()`。**帧率**（展位 MacBook 实测，**它是 M2 Pro 不是 M2**；1920×1080、无头 Chrome 走 Metal、关垂直同步取 6 s 平均；离线预览，另起的 `--sim` 8878，测完关了）：东京 pos 6 off 561 / low 314 / mid 230 / high 172；泰山 pos 24 603 / 349 / 162 / 164；富士 pos 6 638 / 390 / 221 / 162；梧桐 pos 10 404 / 219 / 230 / 184；训练场 pos 6 689 / – / – / 216（low / mid 两次都没加载出来，见留言）。开垂直同步时东京 high 60.0 = 顶格。缺省 high 最低 162 fps，普通 M2（GPU 约一半）估计也 ≥ 80，没实测。开发机 Intel 无头 1280×720（负载 45）：off 40–57，high 22–34。**截图**（前 = `?fx=off`，后 = 缺省）：`docs/提交/截图/light_cyber_night.png`、`light_dawn_mountain.png`（含登顶）、`light_night_to_dawn.png`（pos 6 / 22 / 30 / 登顶）、`light_subtropical.png`、`light_grid.png`；5 个主题 + 实时 /game 三档都 0 报错。**不理想**：泰山两处比原来暗一点（拂晓调子）；泰山登顶日轮比原来淡；梧桐山路边没有树冠，「树影」主要靠光斑图案 + 护栏影，真树影落不到石阶上；每帧绘制 +50～70（阴影一遍 + 后期约 15 次） |
 | **M2 地图（对话框）** | `static/game/themes/**` 的几何和道具、`path.js`、`themes/kit.js`、`game.html` 布局；`hud.js` 只动 AVOID（灯光/雾/后期/材质发光归 L，人物/动作/NPC 归 P/A2/J，`engine.js`/`camera.js` 不动） | 接手第 3 轮：先审 → 修坏处 → 每个主题 3 个大屏改动 → `?fx=low` 降级 | **第 3 批 场景互动已提交（分支 claude/focused-shtern-45d528，已 merge main 33d88d7，待合并）**。全部只看化身位置 `st.s` / 进度 / 登顶，只改画面和音效，不调任何控制接口；音效是 WebAudio 现合成（`kit.sfx`，`?sfx=0` 静音，浏览器没交互前不出声，按键后恢复）；都是 3D 里的东西，不加 DOM，不和峰哥气泡抢位置。**东京**：走近贩卖机 → 正面一闪、「咚」地滚出一罐饮料（落地弹一下滚到路边）；等红灯的 3 个撑伞行人，化身走近转身挥手、到跟前往外让一步；奉納提灯走到哪亮到哪（没走到的是暗的，下一圈重新熄）；湿街每一步踩出一圈水花（`stepFx({ wet })`）。**泰山**：爬慢十八时一个挑山工（草帽、扁担、一箱水一袋粮）从前面台阶下来，擦肩时头上冒「加油！」；摩崖石刻（慢十八 / 不紧不慢又十八 / 青云梯 / 岱宗 / 天门长啸 / 万里清风）路过前后 2.5 步发金光；穿过南天门（或登顶）钟响三声、天街屋檐上惊起一群鸟。**富士**：走近山小屋，檐下提灯从一头到另一头一盏盏点亮、门口暖帘被风掀起来；进度过 0.93（御来光）太阳那边一团暖光涨满天、天光亮一下、一声风铃；流星划过时镜头抬头看一眼（最多 20 s 一次；峰哥本人抬头归 A2，没动化身）。**梧桐**：走近蝴蝶群 → 惊起飞散（`flock.agitate`）+ 扑棱声；跨过山涧 → 路两边溅水花 + 水声；到观景台 → 镜头往后上方拉远、偏左，把右边深圳天际线框进来（rigFor，离台一步收回）。**训练场**：眼前那座路段门横梁上一排进度灯（灯数 = 这段步数，走一步亮一盏，路段色）+ 门顶计分牌「已走 n / N 步」+ 进度条；踩过的脚印亮一下。**绘制**：每个互动 1–3 次（行人 3、挑山工 3、其余 1–2）。**`?fx=low`**：东京不放行人，泰山石刻不发光，惊鸟 / 蝴蝶 / 水花减半，其余照常；5 个主题 fx=low 各走一遍触发，都没报错。**截图** `docs/提交/截图/map_interact_*.png`（15 张，泰山惊鸟两张连拍）。**没做到 / 照实写**：音效只在代码里合成，这台机器面板隐藏、没实际听过；互动都在预览里按进度插值触发验的，没用模拟或真机走；东京罐子太小（已修：放大到半径 0.15、长 0.46，比真罐大 2 倍多，改成吃光的材质，泛光下不再白成一团，截图 `map_interact_tokyo_vending.png` 已换）。**音量**：`kit.sfx` 乘设置页的「捷风 / 音效音量」（`window.__settings.get('vSfx')`），离线预览（`?preview=`）不出声，和 E 的 `cliff_path/interact.js` 同一规矩。（第 1 批 b930b88：审第 3 轮 + 每主题 3 个改动 + fx=low；第 2 批 cb698ca：落阶反馈 stepFx + 每主题再 3 个改动，详情见 git log） |
 | **E 珠峰地图**（分支 claude/exciting-ptolemy-bc4711） | `shellos/worlds/everest_north.json`（新）、`static/game/themes/snow_summit.js` + `themes/snow_summit/`（新：sky / snow / props / hypoxia）、`docs/提交/截图/everest_*.png`；`worlds/__init__.py` 只改 ORDER 一行（排富士后面）；**engine.js / path.js / kit.js / hud.js 都没改** | 珠峰北坡新世界 + 高海拔雪山主题 `snow_summit` | ✅ **做完，未 push**。**路线** 56 步（按爬升比例压，不按路程）：珠峰大本营 3 平 → 东绒布冰川 19 上坡（Z 字）→ 前进营地 2 平 → 北坳冰壁 5 上台阶 → **北坳营地·吸氧**（wait）→ 北山脊·大风口 19 上坡 → 第一台阶 2 → **第二台阶·排队上梯**（wait）→ 第二台阶·中国梯 3 上台阶 → 顶峰雪坡 1 → 珠穆朗玛峰。HUD 海拔（terrain.py 同一公式算过）：5200 / 6508 / 7024 / 8333 / 8539 / 最后一步 8849；第一、二台阶为了腿感放大了：第一台阶读数比真实低 60–230 m，梯子段 8539–8746（真实约 8580–8680），note 里写的是「±200 m 以内」。**按实地校对**（查证 workflow：新华社 / 澎湃 / 中国日报 / 维基 / Alan Arnette 交叉核对，只写高可信的）：① 去前进营地走的是**东绒布冰川**，任务单写的「中绒布」改了；② **排队挪到第二台阶梯子下面**：北坡公认的堵点就是一次只能上一个人的中国梯，2019 那张著名排队照片是南坡拍的，所以没放在顶峰前；③ 中国梯 1975 年架设，2007 年旁边另架新梯、2008 年原梯拆下收进拉萨珠峰登山博物馆，note 写明；④ 北坳起可以开始吸氧（新华社原文），7500 m 一带叫大风口；⑤ 8848.86 = 2020 年中尼共同公布的雪面高程。**主题**：大本营玛尼堆 + 放射状经幡（旗面在顶点着色器里飘，风雪越大飘得越凶）、黄帐篷、「珠峰大本营 5200 m」石、远处珠峰北壁 + 旗云；碛石路 + 右侧冰塔林；北坳冰壁冰塔、红蓝固定绳 + 雪锥（路右沿外，冰壁起一直拉到顶峰前）、雪道贴图上两排冰爪印（化身线 + 影子线，每步一个）；北坳营地帐篷 + 氧气瓶；第一 / 第二台阶两侧积雪岩块（第一台阶偏黄 = 黄带）；**铝梯**：两根边梁 + 横档压在台阶前沿、顶端翘出，化身踩在横档上；**排队** 5 人（`fx=low` 3 人）红灯时站在梯子上和雪坡上，放行后往上走、翻过顶峰就不见，挡在镜头和化身之间（正面镜头）的自动藏；**顶峰红色测量觇标**（三脚架 + 立杆 + 觇牌 + 天线盘）+ 经幡；登顶镜头从化身左前方起，看得见峰哥的脸，影子和觇标错开在旁边。**天气**按进度：低处晴（藏蓝天、白太阳）→ 过前进营地起风雪（雾收到 5–36、雪粒横飞、远山褪白）→ 排队处转晴 → 登顶 1.2 s 过渡到脚下云海 + 头顶蓝黑天，三层喜马拉雅剪影随爬升沉到地平线下。**缺氧**：按海拔（5300 m 起）画面四周变暗 + 模糊（DOM 两层：径向暗角 + backdrop-filter 模糊带遮罩，插在 canvas 后面、HUD 下面，和 WebGL 后期不相干），随呼吸（14→21 次/分）只改透明度，画面不晃不缩放。**走到才露面**：整条路只有 28 个单位长、4.4 高，大本营一眼能看到顶，所以岩石台阶 / 铝梯 / 排队 / 觇标离 6–9 个单位才溶出来，过了北坳大本营 / 前进营地的帐篷经幡溶掉（站在第二台阶回头不会看见 20 个单位外的大本营帐篷）。红灯面板写这一段的名字（● 北坳营地·吸氧 / ● 第二台阶·排队上梯）。地标按路段类型找、不写死步号，「一句话造山」生成的 snow_summit 世界也能用。藏起来的东西不用 `visible=false`，缩成一个点（还在绘制列表里）：ANGLE / Metal 第一次绘制才建管线，以前雪粒、云海、岩块爬到半路第一次露面各卡 170–220 ms，改后第一次露面 5–8 ms（本机实测）。**对抗式 review**（workflow：正确性 / 接口规矩 / 性能 / 史实 4 个维度，每条再派 2 个复核）找出 8 条，全修了：缺氧呼吸相位拿绝对时间算（开久了越喘越快）、雪粒同样的问题（风速一变整片瞬移）、排队的人会被走得快的化身穿过去 / 新一圈往回滑、顶峰一条经幡绳穿过化身腰部、登顶开场影子被化身挡住、固定绳在路面里（镜头那侧）、上面说的着色器卡顿、note 里海拔误差写反了 + 北坳写成≈7020。**验收**：截图 `docs/提交/截图/everest_{bc,col,ladder,queue,summit}.png`（跟拍）+ `everest_*_front.png`（`&cam=front`），URL `/game?preview=everest_north&pos=1|29|53|51|55&summit=1`（带 `&ghost=`）；无头 Chrome（Metal）按真实时间等 `data-ready` 再截，1920×1080 缩到 1280×720，errlog 全空。`--sim` 走一圈：30.5 s 登顶（laps 0→1），北坳 / 排队两处停下后 2.2 s、2.0 s 放行（站定 1.5 s 规则），实时页面（非预览）也跑过一圈，errlog 空。pytest **108 passed**（`test_fault::test_stress_stack_end_to_end` 要 `data/recordings/synthetic-walk.csv`，那是 gitignore 的，worktree 里没有；从主工作区临时拷进来跑过再删了）。**性能**：**没在 M2 上测**。本机（2017 MBP，Radeon Pro 555）1080p 无头 Metal：珠峰 28–36 fps、泰山同法 27 fps；强制同步渲染测法：空场景 39 ms、珠峰 43 ms、泰山 90 ms（主题本身约 +4 ms）。整场景 ~124–144k 三角形、44–67 次绘制；`?fx=low`：~98–106k 三角形、雪粒 700（常规 2200）、排队 3 人、不要模糊层；主题 65 KB。`gen.styles()` 已经能拿到 snow_summit；两条怪路线（无红灯含下台阶 / 开头红灯 + 结尾排队）预览 errlog 空。**不理想**：铝梯只能顺着台阶斜度铺（引擎每级只升 0.12），「陡」靠两侧岩块 + 低机位仰拍撑；HUD 小标签和「N 步后：」还写「红灯」、登顶那 6 s HUD 海拔显示新一圈的 5200（hud.js，见留言）；和 L 线 lighting.js 合并后没一起测过（见留言） |
 | **E2 华山地图**（同分支 claude/exciting-ptolemy-bc4711） | `shellos/worlds/huashan_plank.json`（新）、`static/game/themes/cliff_path.js` + `themes/cliff_path/`（新：sky / rock / props）、`docs/提交/截图/huashan_*.png`；`worlds/__init__.py` 只加 ORDER 一项（珠峰后面）；顺手改了自己的 `snow_summit/hypoxia.js`（见下）；**engine / path / kit / hud / lighting 都没改** | 华山·长空栈道新世界 + 花岗岩绝壁主题 `cliff_path`，正面镜头拍出悬崖纵深 | ✅ **做完，未 push**。**路线** 60 步（按爬升比例压）：玉泉院 3 平 → 青柯坪山路 21 上坡（Z 字）→ 回心石 1 → 千尺幢 7 上台阶 → 百尺峡 2 → 老君犁沟 2 → 北峰 2 平 → 苍龙岭 7 上台阶 → 金锁关 2 平 → 中峰 5 上坡 → **南天门·扣安全锁**（wait）→ 长空栈道 5 平 → 南峰 2 → 南峰·华山极顶。HUD 海拔（terrain.py 同一公式）：411 / 回心石 1089 / 北峰 1622 / 金锁关 1961 / 栈道 2123 / 最后一步 2155。**按实地校对**（查证 workflow）：北峰 1614.9（HUD 读 1622，步长只能到这）、南峰 2154.9（2007 年重测，旧值 2160）是硬数字；玉泉院约 411、回心石约 1330 只有 GPS 轨迹类来源，金锁关、栈道海拔是推算，note 里写了「读数只是示意」。长空栈道其实是南峰东侧、从南天门外出去的一条**支路**，走到贺老洞要原路返回——游戏把它串在登顶前，note 写明；尽头刻「全真崖」（查不到有「长空栈道」四字石刻，所以没刻）；同心锁集中在**金锁关**，所以加了金锁关一段、锁挂在那里。**主题**：玉泉院山门（匾额双面字）、两侧花岗岩峪壁（竖向节理 + 水痕）、回心石；千尺幢 / 百尺峡 / 老君犁沟 = 两侧直上直下的窄缝，缝里低机位仰拍、「太华咽喉」「百尺峡」刻字，百尺峡缝口卡一块巨石；北峰；苍龙岭 = 刀背山脊（路沿一过就是直落的崖面，两侧铁链挂同心锁和红布条，上端「韩退之投书处」）；金锁关满链的锁；长空栈道 = 路面在这一段换成横铺木板、板外和板缝挖空（能从缝里往下看见云），右边一面前倾的高崖、崖上铁桩托板 + 保险铁链 + 挂着的安全带，左边连路底下全空；南峰「华山极顶」刻石；华山松、秦岭远山、深谷里的云海。**镜头**：苍龙岭、栈道上跟拍镜头挪到悬崖那侧、悬在空处；**正面镜头（V / `?cam=front`）**在栈道上和木板齐平、悬到崖外回看，峰哥全身、身后崖面上下都在；苍龙岭上站在岭上往回看，岭脊一路往下。离镜头 1.6 以内的崖面片元溶掉（镜头跟在后面 8 步，拐进峡缝不会整屏是墙）。峡缝高崖走过就溶、山上的东西走近才露、栈道高崖过了就溶（登顶回头不会看见比顶峰还高的墙）。藏起来的东西缩成点（不用 visible=false，管线第一帧建好，不卡）。**验收**：截图 `docs/提交/截图/huashan_{gate,slot,ridge,plank,summit}.png` + `_front`（`/game?npc=0&preview=huashan_plank&pos=1|28|41|55|59&summit=1`，带 ghost；`npc=0` 是为了不让捷风挡镜头），无头 Chrome（Metal）按真实时间等 data-ready 再截，errlog 空。`--sim` 走一圈 29.1 s 登顶，扣安全锁停下后 1.9 s 放行。合了最新 main 后 pytest **125 passed**（stress 那条同上次，临时拷 recordings 跑的）。**按美术范式**：台阶每级前缘 `SEG.stairs_up` 黄亮条（0.06）、影子 `WHO.ghost.bright` / 0.55 / `#063f3a`、接了 M2 的 `kit.stepFx`；`#wait` 大字交给 U（U 已经按段名写「● 南天门·扣安全锁」），主题不再改。两条怪路线（无红灯含下台阶 / 开头红灯 + 结尾红灯）预览 errlog 空。**复核**（多代理 review + 逐条复现）后改了：show() 显示时恢复原缩放（珠峰主题同样修了）；相邻地标的镜头锚点交错导致上下颠；栈道在路线末尾时崖不出现；峡缝铁链分组；太早的红灯不当栈道口；珠峰缺氧 fps 宽限期被加载吃掉；出峡缝那几步镜头还落在缝里、惊心石和峡壁挡住化身 → 惊心石化身一钻过就溶、峡壁一出缝就溶；华山松按树冠大小留距离（生成世界里 2/13 条路线会挡住化身）；溶到一半的东西不投影；华山专有刻字（太华咽喉 / 韩退之投书处 / 全真崖 / 华山极顶）只在世界名带「华山」时刻，其他 cliff_path 世界刻自己的路段名；登顶卡回到默认居中（放左边会盖住「华山极顶」石）。**性能**：没在 M2 上测。本机（2017 Radeon Pro 555）1080p 无头、光影线后期开着：华山 13.2 fps、泰山 11.7、珠峰 10.1；`?fx=low` 华山 17.6、`?fx=off` 华山 21.7 / 泰山 21.0——主题本身和泰山一个量级。珠峰慢在缺氧的 CSS 模糊层（叠在后期上，藏掉它 10.1 → 14.5），所以改了 `snow_summit/hypoxia.js`：模糊半径 5 → 3 px、约 6700 m 以下不开、页面连续 3 s 低于 40 fps 自动拿掉模糊层（暗角和呼吸照旧）。主题 56 KB。**不理想**：路线只有 28 个单位长，千尺幢的「70°」只能靠窄缝 + 仰拍撑（引擎每级只升 0.12）；登顶那 6 s HUD 海拔的老问题 U 线在改 |
